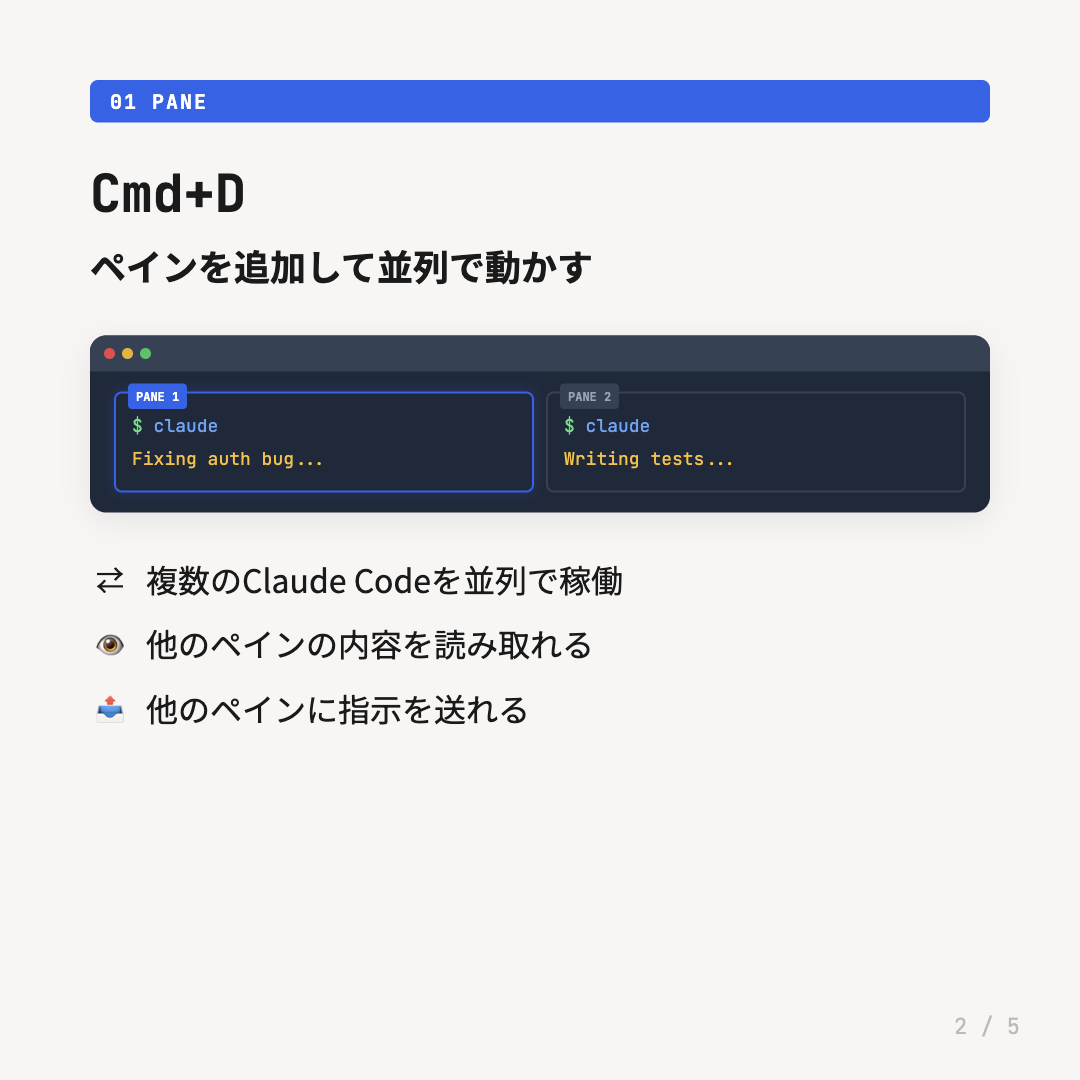
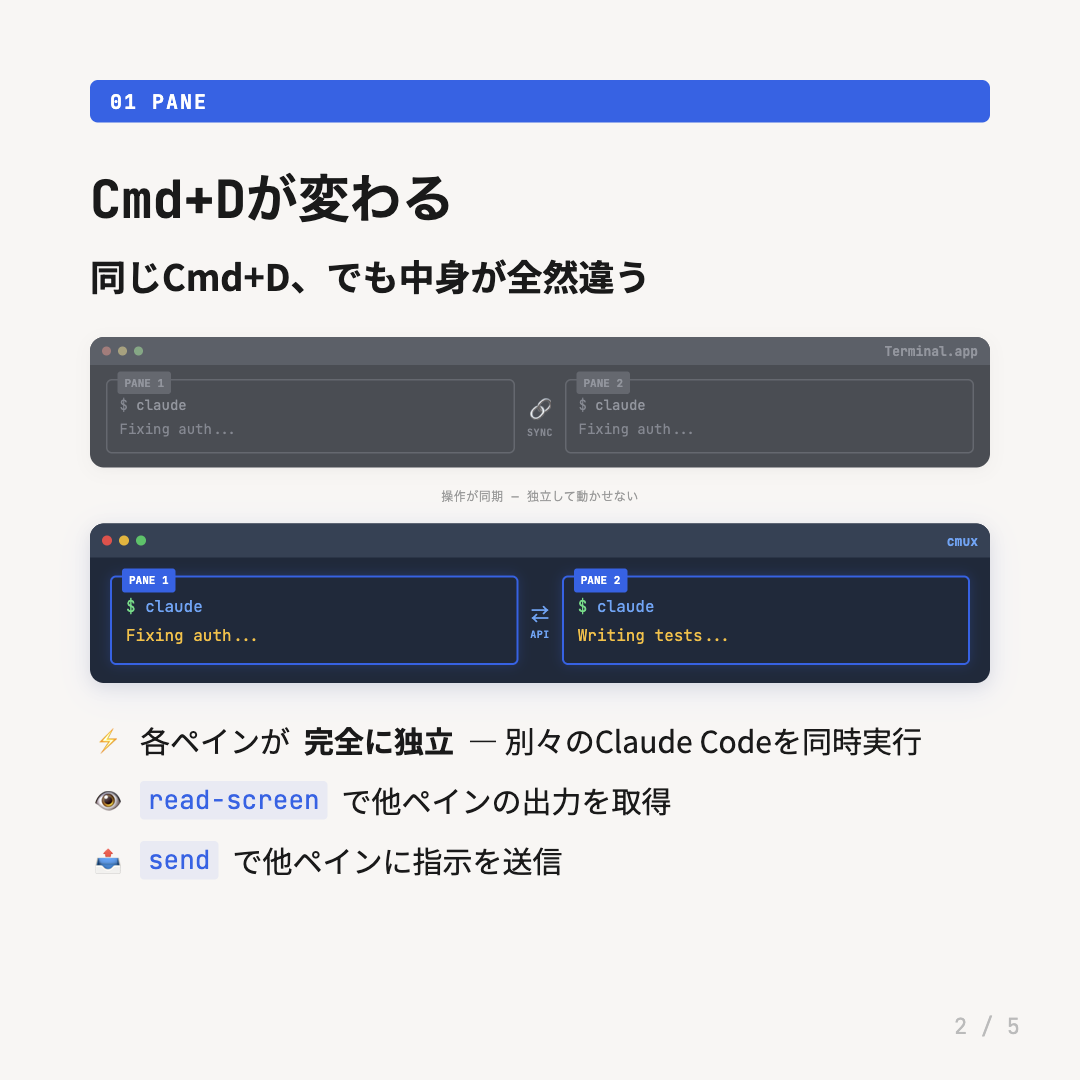
feat: cmuxカルーセルslide2をTerminal.app対比構成に修正
Terminal.appとの対比でcmuxのペイン分割の優位性を伝える構成に変更。
上段（Terminal.app: グレー・SYNC表示）vs 下段（cmux: 青アクセント・独立+API連携）。

diff --git a/carousel-output/cmux/slide2.html b/carousel-output/cmux/slide2.html
@@ -40,64 +40,143 @@ body {
 .description {
   font-size: 36px;
   font-weight: 700;
-  margin-bottom: 44px;
+  margin-bottom: 36px;
 }
+
+/* Terminal共通 */
 .terminal {
-  background: #1e293b;
-  border-radius: 16px;
+  border-radius: 14px;
   width: 100%;
-  box-shadow: 0 8px 32px rgba(0, 0, 0, 0.08);
   overflow: hidden;
-  margin-bottom: 44px;
 }
 .terminal-bar {
-  background: #334155;
-  height: 36px;
+  height: 32px;
   display: flex;
   align-items: center;
-  padding: 0 14px;
+  padding: 0 12px;
   gap: 7px;
 }
 .terminal-dot {
-  width: 11px;
-  height: 11px;
+  width: 10px;
+  height: 10px;
   border-radius: 50%;
 }
-.terminal-dot.red { background: #ef4444; }
-.terminal-dot.yellow { background: #eab308; }
-.terminal-dot.green { background: #22c55e; }
+.terminal-bar-label {
+  font-family: 'JetBrains Mono', monospace;
+  font-size: 13px;
+  font-weight: 700;
+  margin-left: auto;
+}
 .terminal-body {
-  padding: 20px 24px;
   display: flex;
-  gap: 12px;
+  align-items: center;
 }
 .pane {
   flex: 1;
-  border: 2px solid #334155;
-  border-radius: 8px;
-  padding: 16px;
+  border-radius: 6px;
   font-family: 'JetBrains Mono', monospace;
-  font-size: 18px;
-  line-height: 1.8;
-  color: #94a3b8;
   position: relative;
-}
-.pane.active {
-  border-color: #2563eb;
-  box-shadow: 0 0 12px rgba(37, 99, 235, 0.25);
 }
 .pane-label {
   position: absolute;
-  top: -10px;
-  left: 12px;
-  font-size: 12px;
+  top: -9px;
+  left: 10px;
+  font-size: 11px;
   font-weight: 700;
-  padding: 2px 8px;
-  border-radius: 4px;
+  padding: 2px 7px;
+  border-radius: 3px;
+}
+
+/* ── 上段: Terminal.app（グレー・inactive） ── */
+.terminal-before {
+  background: #2a2f38;
+  box-shadow: 0 4px 16px rgba(0, 0, 0, 0.05);
+  margin-bottom: 14px;
+  opacity: 0.85;
+}
+.terminal-before .terminal-bar {
+  background: #404550;
+  height: 28px;
+}
+.terminal-before .terminal-dot { width: 9px; height: 9px; }
+.terminal-before .terminal-dot.red { background: #9a6565; }
+.terminal-before .terminal-dot.yellow { background: #9a9265; }
+.terminal-before .terminal-dot.green { background: #659a6e; }
+.terminal-before .terminal-bar-label {
+  color: #808590;
+}
+.terminal-before .terminal-body {
+  padding: 14px 16px;
+  gap: 10px;
+}
+.terminal-before .pane {
+  border: 1.5px solid #4a4f58;
+  padding: 12px;
+  font-size: 14px;
+  line-height: 1.7;
+  color: #707580;
+}
+.terminal-before .pane-label {
+  background: #4a4f58;
+  color: #808590;
+}
+.sync-indicator {
+  display: flex;
+  flex-direction: column;
+  align-items: center;
+  gap: 2px;
+  flex-shrink: 0;
+  padding: 0 2px;
+}
+.sync-icon {
+  font-size: 20px;
+  filter: grayscale(0.5);
+}
+.sync-text {
+  font-family: 'JetBrains Mono', monospace;
+  font-size: 10px;
+  font-weight: 700;
+  color: #707580;
+  letter-spacing: 0.5px;
+}
+.before-caption {
+  font-family: 'JetBrains Mono', monospace;
+  font-size: 12px;
+  color: #999;
+  text-align: center;
+  margin-top: 6px;
+  letter-spacing: 0.5px;
+}
+
+/* ── 下段: cmux（青アクセント・active） ── */
+.terminal-after {
+  background: #1e293b;
+  box-shadow: 0 8px 32px rgba(37, 99, 235, 0.10), 0 4px 16px rgba(0, 0, 0, 0.08);
+  margin-bottom: 36px;
+}
+.terminal-after .terminal-bar {
   background: #334155;
+  height: 34px;
+}
+.terminal-after .terminal-dot.red { background: #ef4444; }
+.terminal-after .terminal-dot.yellow { background: #eab308; }
+.terminal-after .terminal-dot.green { background: #22c55e; }
+.terminal-after .terminal-bar-label {
+  color: #60a5fa;
+}
+.terminal-after .terminal-body {
+  padding: 18px 20px;
+  gap: 10px;
+}
+.terminal-after .pane {
+  border: 2px solid #2563eb;
+  box-shadow: 0 0 12px rgba(37, 99, 235, 0.25);
+  padding: 14px;
+  font-size: 16px;
+  line-height: 1.8;
   color: #94a3b8;
 }
-.pane.active .pane-label {
+.terminal-after .pane-label {
   background: #2563eb;
   color: #fff;
 }
@@ -105,24 +184,56 @@ body {
 .pane .str { color: #fbbf24; }
 .pane .flag { color: #4ade80; }
 .pane .prompt { color: #4ade80; }
+.api-indicator {
+  display: flex;
+  flex-direction: column;
+  align-items: center;
+  gap: 2px;
+  flex-shrink: 0;
+  padding: 0 2px;
+}
+.api-icon {
+  font-size: 18px;
+  color: #60a5fa;
+}
+.api-text {
+  font-family: 'JetBrains Mono', monospace;
+  font-size: 10px;
+  font-weight: 700;
+  color: #60a5fa;
+  letter-spacing: 0.5px;
+}
+
+/* ── ポイント ── */
 .points {
   display: flex;
   flex-direction: column;
-  gap: 20px;
+  gap: 18px;
 }
 .point {
-  font-size: 32px;
+  font-size: 30px;
   font-weight: 400;
   line-height: 1.4;
   display: flex;
   align-items: center;
-  gap: 16px;
+  gap: 14px;
 }
 .point-icon {
-  font-size: 28px;
+  font-size: 26px;
   flex-shrink: 0;
-  width: 40px;
+  width: 36px;
   text-align: center;
+}
+.point code {
+  font-family: 'JetBrains Mono', monospace;
+  font-size: 26px;
+  background: rgba(37, 99, 235, 0.08);
+  padding: 1px 8px;
+  border-radius: 4px;
+  color: #2563eb;
+}
+.point strong {
+  font-weight: 700;
 }
 .slide-counter {
   position: absolute;
@@ -136,19 +247,54 @@ body {
 </head>
 <body>
 <div class="tag">01 PANE</div>
-<div class="title">Cmd+D</div>
-<div class="description">ペインを追加して並列で動かす</div>
-<div class="terminal">
+<div class="title">Cmd+Dが変わる</div>
+<div class="description">同じCmd+D、でも中身が全然違う</div>
+
+<!-- 上段: Terminal.app（グレー・制限あり） -->
+<div class="terminal terminal-before">
   <div class="terminal-bar">
     <div class="terminal-dot red"></div>
     <div class="terminal-dot yellow"></div>
     <div class="terminal-dot green"></div>
+    <span class="terminal-bar-label">Terminal.app</span>
   </div>
   <div class="terminal-body">
-    <div class="pane active">
+    <div class="pane">
+      <div class="pane-label">PANE 1</div>
+      <div><span style="color:#707580;">$</span> <span style="color:#808590;">claude</span></div>
+      <div><span style="color:#707580;">Fixing auth...</span></div>
+    </div>
+    <div class="sync-indicator">
+      <span class="sync-icon">🔗</span>
+      <span class="sync-text">SYNC</span>
+    </div>
+    <div class="pane">
+      <div class="pane-label">PANE 2</div>
+      <div><span style="color:#707580;">$</span> <span style="color:#808590;">claude</span></div>
+      <div><span style="color:#707580;">Fixing auth...</span></div>
+    </div>
+  </div>
+</div>
+<div class="before-caption">操作が同期 — 独立して動かせない</div>
+
+<!-- 下段: cmux（青アクセント・独立） -->
+<div style="margin-top: 18px;">
+<div class="terminal terminal-after">
+  <div class="terminal-bar">
+    <div class="terminal-dot red"></div>
+    <div class="terminal-dot yellow"></div>
+    <div class="terminal-dot green"></div>
+    <span class="terminal-bar-label">cmux</span>
+  </div>
+  <div class="terminal-body">
+    <div class="pane">
       <div class="pane-label">PANE 1</div>
       <div><span class="prompt">$</span> <span class="cmd">claude</span></div>
-      <div><span class="str">Fixing auth bug...</span></div>
+      <div><span class="str">Fixing auth...</span></div>
+    </div>
+    <div class="api-indicator">
+      <span class="api-icon">&#x21C4;</span>
+      <span class="api-text">API</span>
     </div>
     <div class="pane">
       <div class="pane-label">PANE 2</div>
@@ -157,11 +303,15 @@ body {
     </div>
   </div>
 </div>
-<div class="points">
-  <div class="point"><span class="point-icon">&#x21C4;</span>複数のClaude Codeを並列で稼働</div>
-  <div class="point"><span class="point-icon">&#x1F441;</span>他のペインの内容を読み取れる</div>
-  <div class="point"><span class="point-icon">&#x1F4E4;</span>他のペインに指示を送れる</div>
 </div>
+
+<!-- ポイント3つ -->
+<div class="points">
+  <div class="point"><span class="point-icon">&#x26A1;</span>各ペインが<strong>完全に独立</strong> — 別々のClaude Codeを同時実行</div>
+  <div class="point"><span class="point-icon">&#x1F441;</span><code>read-screen</code>で他ペインの出力を取得</div>
+  <div class="point"><span class="point-icon">&#x1F4E4;</span><code>send</code>で他ペインに指示を送信</div>
+</div>
+
 <div class="slide-counter">2 / 5</div>
 </body>
 </html>
